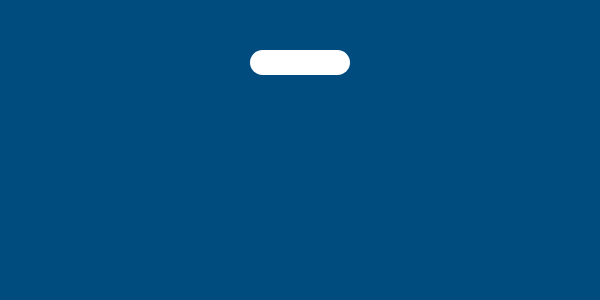
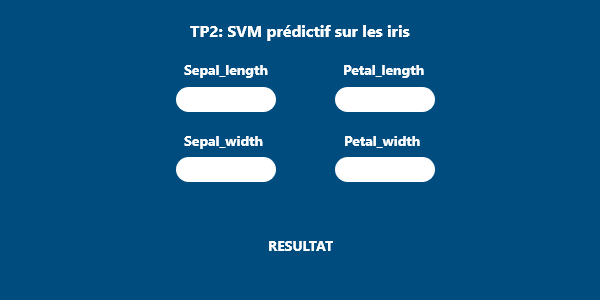
latest

diff --git a/SRC/Programme.py b/SRC/Programme.py
@@ -1,0 +1,165 @@
+from pathlib import Path
+from tkinter import Label, StringVar,Tk,Canvas,Text,Button,PhotoImage
+from tkinter.constants import END,WORD
+from sklearn import svm
+import seaborn as sns
+import pickle
+
+#chemin d'accès aux assets
+OUTPUT_PATH = Path(__file__).parent
+ASSETS_PATH = OUTPUT_PATH / Path("./assets")
+def relative_to_assets(path: str) -> Path:
+    return ASSETS_PATH / Path(path)
+
+window = Tk()
+window.title("TP2 SVM")
+width = 600 
+height = 300
+ 
+screen_width = window.winfo_screenwidth()  
+screen_height = window.winfo_screenheight() 
+
+x = (screen_width/2) - (width/2)
+y = (screen_height/2) - (height/2)
+ 
+window.geometry('%dx%d+%d+%d' % (width, height, x, y))
+window.resizable(False, False)
+window.config(cursor="dot")
+
+result=StringVar()
+result.set("------")
+
+#import de notre modele SVM
+with open('mon_model_SVM.pkl', 'rb') as f:
+    model = pickle.load(f)
+    
+
+def predire():
+    ok=False
+    try:
+        inputs=[[float(SL.get(0.0,END)),float(SW.get(0.0,END)),float(PL.get(0.0,END)),float(PW.get(0.0,END))]]
+        ok=True
+    except:
+        result.set('Entrer des bonnes Valeurs')
+        ok=False
+    if ok:
+        result.set(model.predict(inputs))
+        
+    
+#arrière plan
+canvas = Canvas(
+    window,
+    bg="#004c7f",
+    height=300,
+    width=600,
+    bd=0,
+    highlightthickness=0,
+    relief="ridge",
+)
+canvas.place(x = 0, y = 0)
+
+bg_image = PhotoImage(
+    file=relative_to_assets("bg.png"))
+bg = canvas.create_image(
+    300,
+    150,
+    image=bg_image
+    )
+
+SL = Text(
+    canvas,
+    bd=0,
+    bg="#FFFFFF",
+    highlightthickness=0,
+    font=("sergio",10,"bold"),
+    wrap=WORD,
+    cursor="dot",
+
+)
+SL.place(
+    x=181,
+    y=90,
+    width=90,
+    height=20
+)
+SW = Text(
+    canvas,
+    bd=0,
+    bg="#FFFFFF",
+    highlightthickness=0,
+    font=("sergio",10,"bold"),
+    wrap=WORD,
+    cursor="dot",
+
+)
+SW.place(
+    x=181,
+    y=160,
+    width=90,
+    height=20
+)
+PL = Text(
+    canvas,
+    bd=0,
+    bg="#FFFFFF",
+    highlightthickness=0,
+    font=("sergio",10,"bold"),
+    wrap=WORD,
+    cursor="dot",
+
+)
+PL.place(
+    x=340,
+    y=90,
+    width=90,
+    height=20
+)
+PW = Text(
+    canvas,
+    bd=0,
+    bg="#FFFFFF",
+    highlightthickness=0,
+    font=("sergio",10,"bold"),
+    wrap=WORD,
+    cursor="dot",
+
+)
+PW.place(
+    x=340,
+    y=160,
+    width=90,
+    height=20
+)
+button_image = PhotoImage(
+    file=relative_to_assets("btn.png"))
+button_1 = Button(
+    canvas,
+    command=predire,
+    image=button_image,
+    borderwidth=0,
+    highlightthickness=0,
+    relief="flat",
+    activebackground="#004C7F",
+    bg="#004C7F"
+)
+button_1.place(
+    x=266,
+    y=197,
+    width=69,
+    height=26
+)
+
+resultat=Label(
+    canvas,
+    textvariable=result,
+    fg="red",
+    bg="white",
+    font=('sergio',13,'bold')
+)
+resultat.place(
+        x=150,
+        y=260,
+        width=300
+)
+
+window.mainloop()
